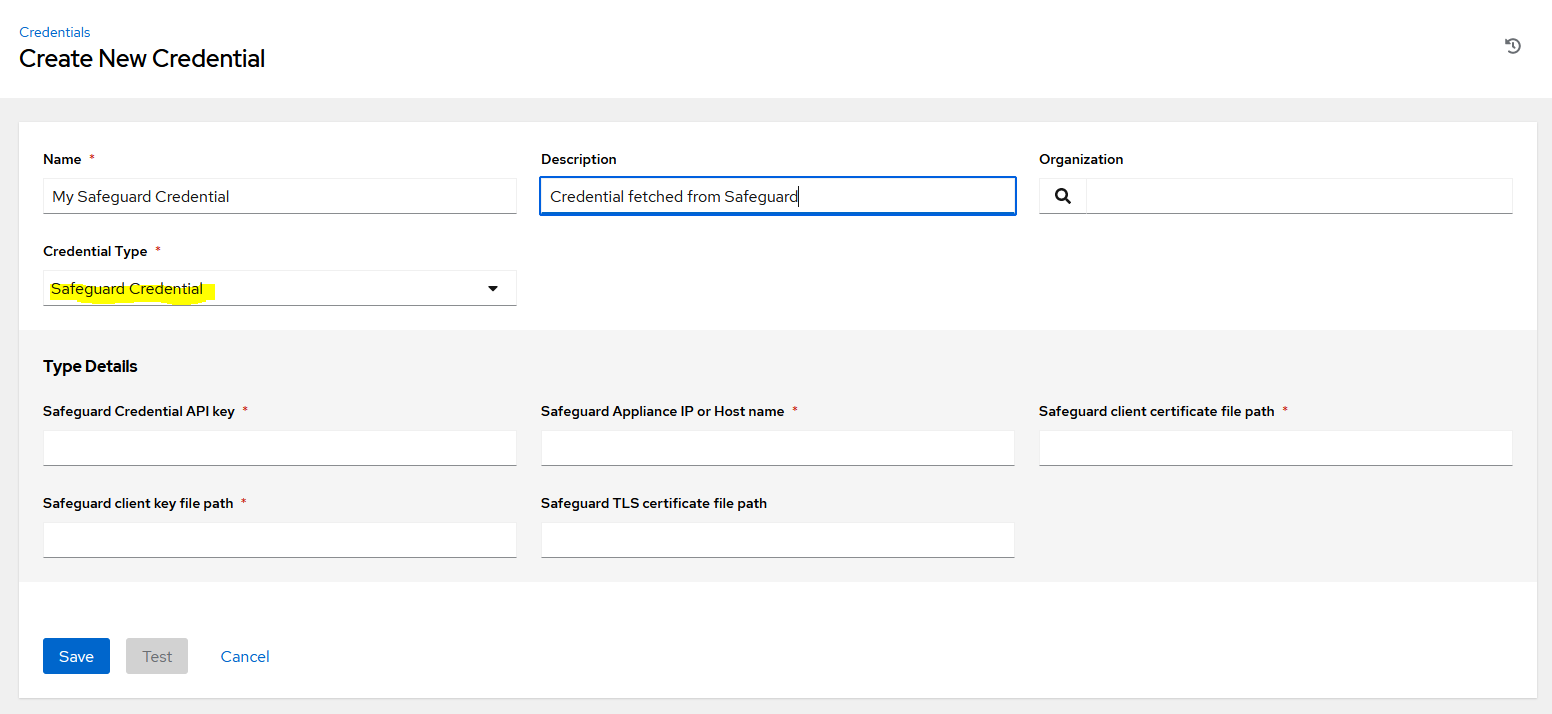
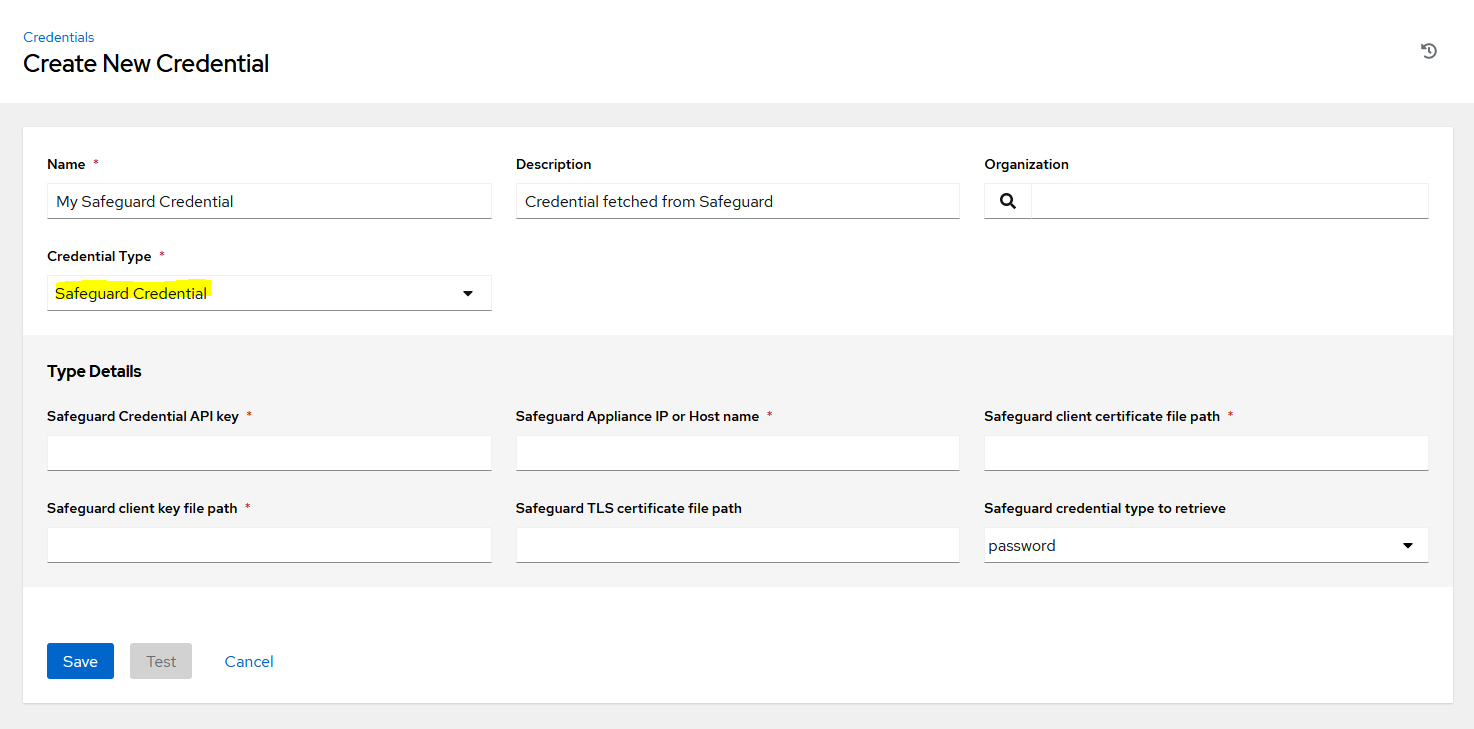
Update the documentation to include the spp_credential_type parameter

diff --git a/collection/oneidentity/safeguard/plugins/README.md b/collection/oneidentity/safeguard/plugins/README.md
@@ -53,6 +53,7 @@ When an A2A registration is created in SPP, there are several pieces of informat
 * A client authentication certificate file (PEM format)
 * A client authentication private key (PEM format)
 * The TLS public certificate used to verify the SPP appliance
+* The type of credential to retrieve - password (default) or privatekey
 
 Given this information from an A2A registration, the Safeguard credential lookup plugin will be able to fetch the associated credential from SPP.
 
@@ -66,6 +67,7 @@ vars:
       spp_certificate_file: /etc/ansible/spp/a2ausercert.pem
       spp_certificate_key: /etc/ansible/spp/a2ausercert.key
       spp_tls_cert: /etc/ansible/spp/spptlscert.pem
+      spp_credential_type: password
   spp_credential: "{{lookup('oneidentity.safeguardcollection.safeguardcredentials', spp_a2a_apikey, a2aconnection=a2aconnectioninfo)}}"
 ```
 
@@ -77,6 +79,7 @@ Parameters:
   * **spp_certificate_file** - The full path to the user authentication certificate (PEM format).
   * **spp_certificate_key** - The full path to the user authentication private key (PEM format). NOTE: It is the responsibility of the Ansible administrator to make sure that the private key is stored in a safe location and can only be read by Ansible.
   * **spp_tls_cert** (optional) - The full path to the TLS public certificate that is associated with the SPP appliance. If this certificate path is not provided, the lookup plugin will disable TLS validation which may produce a warning.
+  * **spp_credential_type** (optional) - The type of credential that should be retrieved from SPP. Must be **password** (default) or **privatekey**.
 
 ## Examples
 
@@ -91,7 +94,7 @@ linuxservers:
       spp_certificate_file: /etc/ansible/spp/a2ausercert.pem
       spp_certificate_key: /etc/ansible/spp/a2ausercert.key
       spp_tls_cert: /etc/ansible/spp/spptlscert.pem
-
+      spp_credential_type: password
   hosts:
     vm01:
       spp_credential_1: safyBECB8SW5g0Udk7GRFh6LaQ/KoI0eNOW4JK8Cqeo=
@@ -114,6 +117,7 @@ a2aconnectioninfo:
     spp_certificate_file: /etc/ansible/spp/a2ausercert.pem
     spp_certificate_key: /etc/ansible/spp/a2ausercert.key
     spp_tls_cert: /etc/ansible/spp/spptlscert.pem
+    spp_credential_type: password
 spp_credential: "{{lookup('oneidentity.safeguardcollection.safeguardcredentials', spp_credential_apikey, a2aconnection=a2aconnectioninfo)}}"
 ```
 
@@ -124,13 +128,25 @@ Playbook file:
   hosts: all
   vars:
     spp_credential_apikey: +IWSU/0msm98hUUUen5xOnYZZytVN2o9hLFxVr9S80Q=
-    a2aconnectioninfo:
-      spp_appliance: 192.168.1.234
-      spp_certificate_file: /etc/ansible/spp/a2ausercert.pem
-      spp_certificate_key: /etc/ansible/spp/a2ausercert.key
-      spp_tls_cert: /etc/ansible/spp/spptlscert.pem
+    my_spp_appliance: 192.168.1.234
+    my_spp_certificate_file: /etc/ansible/spp/a2ausercert.pem
+    my_spp_certificate_key: /etc/ansible/spp/a2ausercert.key
+    my_spp_tls_cert: /etc/ansible/spp/spptlscert.pem
+    a2apasswordconnectioninfo:
+      spp_appliance: "{{ my_spp_appliance }}"
+      spp_certificate_file: "{{ my_spp_certificate_file }}"
+      spp_certificate_key: "{{ my_spp_certificate_key }}"
+      spp_tls_cert: "{{ my_spp_tls_cert }}"
+      spp_credential_type: password
+    a2aprivatekeyconnectioninfo:
+      spp_appliance: "{{ my_spp_appliance }}"
+      spp_certificate_file: "{{ my_spp_certificate_file }}"
+      spp_certificate_key: "{{ my_spp_certificate_key }}"
+      spp_tls_cert: "{{ my_spp_tls_cert }}"
+      spp_credential_type: privatekey
   tasks:
-    - name: Get the SPP credential
+    - name: Get the account password
       set_fact:
-        my_credential: "{{lookup('oneidentity.safeguardcollection.safeguardcredentials', spp_credential_apikey, a2aconnection=a2aconnectioninfo)}}"
+        my_password: "{{lookup('oneidentity.safeguardcollection.safeguardcredentials', spp_credential_apikey, a2aconnection=a2apasswordconnectioninfo)}}"
+        my_privatekey: "{{lookup('oneidentity.safeguardcollection.safeguardcredentials', spp_credential_apikey, a2aconnection=a2aprivatekeyconnectioninfo)}}"
 ```

diff --git a/README.md b/README.md
@@ -6,7 +6,7 @@ Ansible is an automation platform for handling the deployment and maintenance of
 
 ## What are the Ansible resources for Safeguard integration?
 
-Ansible uses plugins and modules to extend it's functionality. Ansible ships with a set of core plugins and modules in addition to the many plugins that can be downloaded and added to Ansible for use in playbooks and many other scenarios. This repository provides plugins that can be used to integrate Safeguard for Privileged Passwords (SPP) with Ansible. These plugins allow an Ansible playbook or the AWX environment to pull credentials directly from SPP so that they can be used by Ansible to perform tasks. Two of the plugins that are available in this repository are the SPP lookup plugin and the AWX credential type plugin. For more information about these plugins, please see the individual plugin folders.
+Ansible uses plugins and modules to extend it's functionality. Ansible ships with a set of core plugins and modules in addition to the many plugins that can be downloaded and added to Ansible for use in playbooks and many other scenarios. This repository provides plugins that can be used to integrate Safeguard for Privileged Passwords (SPP) with Ansible. These plugins allow an Ansible playbook or the Ansible Automation Platform environment to pull credentials directly from SPP so that they can be used by Ansible to perform tasks. Two of the plugins that are available in this repository are the SPP lookup plugin and the Ansible Automation Platform credential type plugin. For more information about these plugins, please see the individual plugin folders.
 
 ## Contents
 
@@ -14,9 +14,9 @@ Ansible uses plugins and modules to extend it's functionality. Ansible ships wit
 
 The Safeguard Credentials lookup plugin allows Ansible to fetch a credential from SPP through the Application to Application (A2A) API. For more information, please see <https://github.com/OneIdentity/safeguard-ansible/tree/main/collection/oneidentity/safeguard/plugins>.
 
-### Safeguard Credential Type plugin for AWX
+### Safeguard Credential Type plugin for Ansible Automation Platform
 
-The Safeguard Credential Type plugin is configured using the AWX web interface and allows Ansible to define an SPP credential. For more information, please see <https://github.com/OneIdentity/safeguard-ansible/tree/main/credential_type_plugin>.
+The Safeguard Credential Type plugin is configured using the Ansible Automation Platform web interface and allows Ansible to define an SPP credential. For more information, please see <https://github.com/OneIdentity/safeguard-ansible/tree/main/credential_type_plugin>.
 
 ## Contributing to the Ansible Resources for Safeguard
 

diff --git a/credential_type_plugin/README.md b/credential_type_plugin/README.md
@@ -11,12 +11,13 @@ The Safeguard Credential Type plugin is a plugin that is installed and used by t
 * **Safeguard client certificate file path** - The full path to the user authentication certificate (PEM format).
 * **Safeguard client key file path** - The full path to the user authentication private key (PEM format). NOTE: It is the responsibility of the Ansible administrator to make sure that the private key is stored in a safe location and can only be read by Ansible.
 * **Safeguard TLS certificate file path** (optional) - The full path to the TLS public certificate that is associated with the SPP appliance. If this certificate path is not provided, the lookup plugin will disable TLS validation which may produce a warning.
+* **Safeguard credential type to retrieve** (optional) - Specify the credential type to retrieve from SPP. The options are **password** (default) or **privatekey**.
 
 To fetch a credential from SPP, an A2A registration must have been created in SPP. For more information about how to create an A2A registration, please see the Safeguard for Privileged Passwords Administration Guide for your version of SPP (<https://support.oneidentity.com/technical-documents>).
 
 ## Installation
 
-The installation of the Safeguard Credential Type plugin must be done on the server that is running the Ansible Automation Platform web interface. The plugin is available from the Pypi repository at <https://pypi.org/project/safeguardcredentialtype/> and can be install by running the following commands:
+The installation of the Safeguard Credential Type plugin must be done on the server that is running the Ansible Automation Platform web interface. The plugin is available from the PyPI repository at <https://pypi.org/project/safeguardcredentialtype/> and can be install by running the following commands:
 
 ```text
 > sudo awx-python -m pip install safeguardcredentialtype
